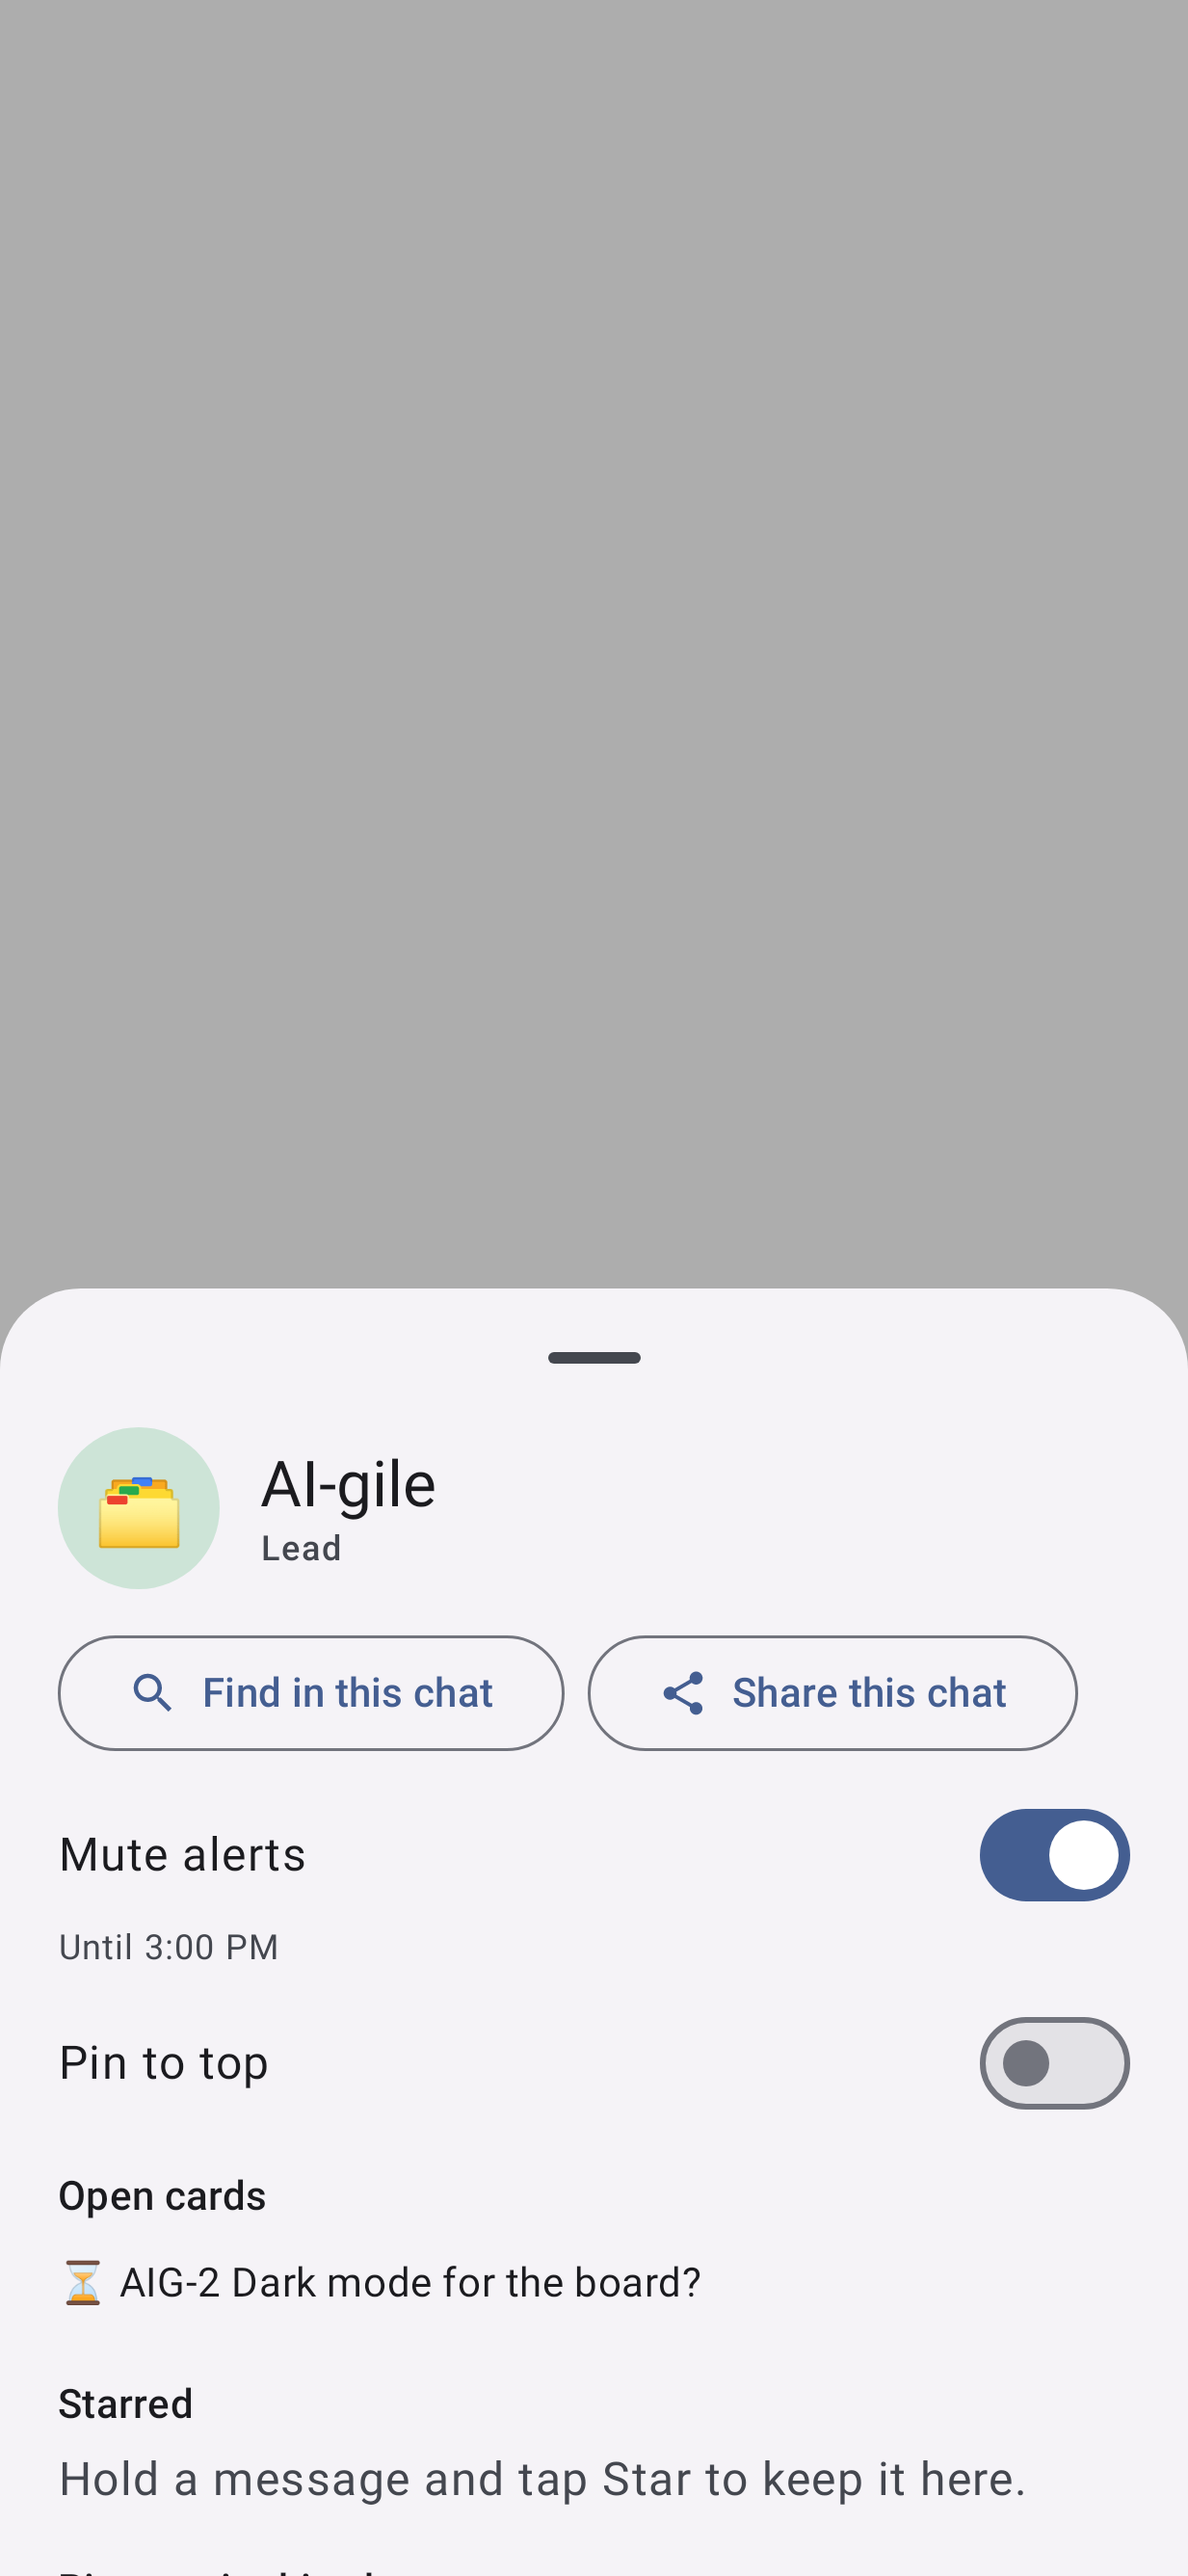
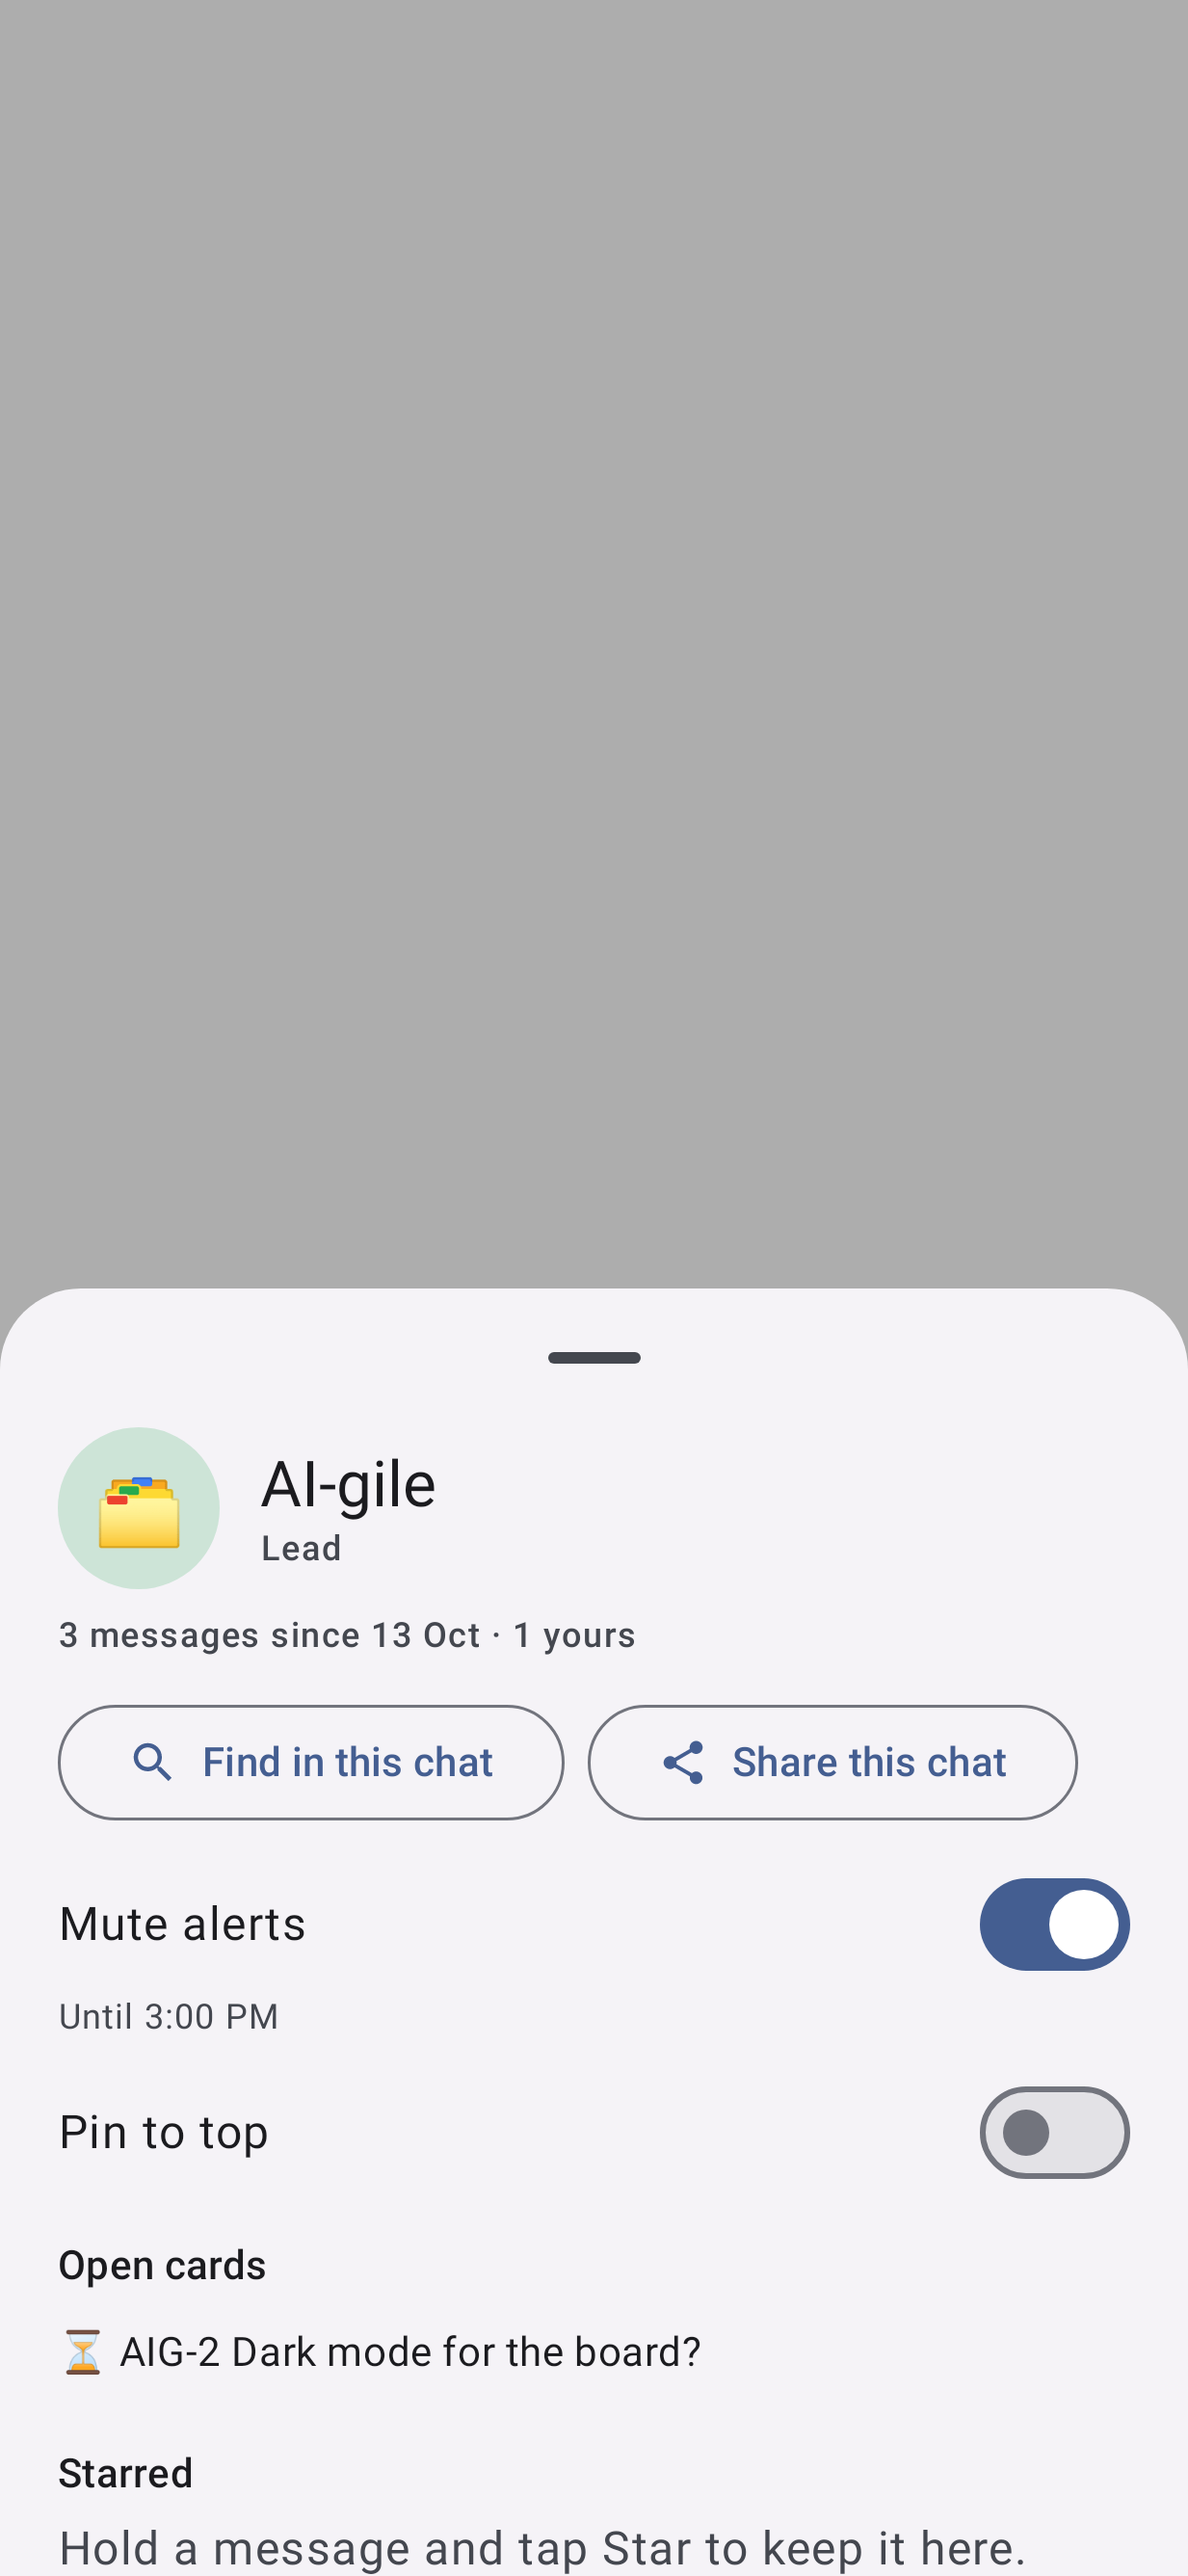
Chat details: About this chat (AII-203)

diff --git a/app/src/main/java/com/smizflark/aigile/messenger/data/ChatInfo.kt b/app/src/main/java/com/smizflark/aigile/messenger/data/ChatInfo.kt
@@ -1,14 +1,14 @@
 package com.smizflark.aigile.messenger.data
 
 /** What the chat details view lists (AII-80): the cards still open and the pictures sent in the chat. */
-data class ChatInfo(val openCards: List<Target>, val pictures: List<Pic>, val links: List<ChatLink> = emptyList(), val files: List<Pic> = emptyList())
+data class ChatInfo(val openCards: List<Target>, val pictures: List<Pic>, val links: List<ChatLink> = emptyList(), val files: List<Pic> = emptyList(), val about: About? = null)
 
 /** Open cards are the ones waiting on you; pictures are newest first, each only once. */
 fun chatInfo(c: Conversation?): ChatInfo {
     if (c == null) return ChatInfo(emptyList(), emptyList())
     val open = c.targets.filter { it.id != null && it.waiting }
     val pics = c.bubbles.asReversed().flatMap { it.pics }.filter { it.image }.distinctBy { it.path }
-    return ChatInfo(open, pics, Links.of(c.bubbles.map { it.text }), files(c))
+    return ChatInfo(open, pics, Links.of(c.bubbles.map { it.text }), files(c), about(c))
 }
 
 /** AII-197: every file that is not a picture, newest first, each once. */
@@ -35,3 +35,18 @@ fun fileMime(p: Pic): String {
         else -> "*/*"
     }
 }
+
+/** AII-203: how many messages the app has for a chat, how many are yours, and the day of the oldest. */
+data class About(val total: Int, val mine: Int, val since: java.time.LocalDate?)
+
+/** Only messages that have reached the chat count (not waiting, sending or failed ones). */
+fun about(c: Conversation, zone: java.time.ZoneId = java.time.ZoneId.systemDefault()): About? {
+    val sent = c.bubbles.filter { it.state == SendState.SENT }
+    if (sent.isEmpty()) return null
+    val first = sent.mapNotNull { runCatching { java.time.Instant.parse(it.at) }.getOrNull() }.minOrNull()
+    return About(sent.size, sent.count { it.mine }, first?.atZone(zone)?.toLocalDate())
+}
+
+/** "3 Oct" in the phone's language; the year joins it when it is not this year. */
+fun aboutDate(d: java.time.LocalDate, today: java.time.LocalDate = Now.today(), locale: java.util.Locale = java.util.Locale.getDefault()): String =
+    java.time.format.DateTimeFormatter.ofPattern(if (d.year == today.year) "d MMM" else "d MMM yyyy", locale).format(d)

diff --git a/app/src/test/java/com/smizflark/aigile/messenger/ChatInfoTest.kt b/app/src/test/java/com/smizflark/aigile/messenger/ChatInfoTest.kt
@@ -71,4 +71,18 @@ class ChatInfoTest {
         assertEquals(2, pics.size)
         assertTrue(pics.all { it.local && it.image })
     }
+
+    @Test fun aboutCountsSentMessagesAndFirstDay() {
+        fun m(at: String, mine: Boolean, st: com.smizflark.aigile.messenger.data.SendState = com.smizflark.aigile.messenger.data.SendState.SENT) =
+            Bubble(at, "a", "t", at, mine, state = st)
+        val conv = Conversation(ref, listOf(m("2026-10-03T08:00:00Z", false), m("2026-10-04T08:00:00Z", true), m("2026-10-05T08:00:00Z", true, com.smizflark.aigile.messenger.data.SendState.FAILED)))
+        val ab = com.smizflark.aigile.messenger.data.about(conv, java.time.ZoneOffset.UTC)!!
+        assertEquals(2, ab.total); assertEquals(1, ab.mine); assertEquals(java.time.LocalDate.of(2026, 10, 3), ab.since)
+        assertEquals(null, com.smizflark.aigile.messenger.data.about(Conversation(ref, emptyList())))
+    }
+    @Test fun aboutDateAddsYearOnlyWhenNotThisYear() {
+        val today = java.time.LocalDate.of(2026, 10, 14)
+        assertEquals("3 Oct", com.smizflark.aigile.messenger.data.aboutDate(java.time.LocalDate.of(2026, 10, 3), today, java.util.Locale.ENGLISH))
+        assertEquals("3 Oct 2025", com.smizflark.aigile.messenger.data.aboutDate(java.time.LocalDate.of(2025, 10, 3), today, java.util.Locale.ENGLISH))
+    }
 }

diff --git a/app/src/main/java/com/smizflark/aigile/messenger/ui/ChatDetails.kt b/app/src/main/java/com/smizflark/aigile/messenger/ui/ChatDetails.kt
@@ -67,6 +67,12 @@ fun ChatDetails(ref: ChatRef, repo: Repo, info: ChatInfo, onFind: (() -> Unit)? 
                     Text(ref.subtitle, style = MaterialTheme.typography.labelMedium, color = MaterialTheme.colorScheme.onSurfaceVariant)
                 }
             }
+            // AII-203: what the app has for this chat.
+            info.about?.let { ab ->
+                val n = androidx.compose.ui.res.pluralStringResource(R.plurals.about_chat_count, ab.total, ab.total)
+                Text(if (ab.since != null) stringResource(R.string.about_chat, n, com.smizflark.aigile.messenger.data.aboutDate(ab.since), ab.mine) else stringResource(R.string.about_chat_nodate, n, ab.mine),
+                    style = MaterialTheme.typography.labelMedium, color = MaterialTheme.colorScheme.onSurfaceVariant, modifier = Modifier.padding(top = 8.dp).testTag("details-about"))
+            }
             // AII-128: straight to the find bar from here.
             FlowRow(Modifier.padding(top = 12.dp), horizontalArrangement = Arrangement.spacedBy(8.dp)) {
                 if (onFind != null) OutlinedButton(onClick = onFind, modifier = Modifier.testTag("details-find")) {

diff --git a/docs/CODEMAP.md b/docs/CODEMAP.md
@@ -9,6 +9,7 @@ Kotlin under `app/src/main/java/com/smizflark/aigile/messenger/` (paths below ar
 ## data/ (pure logic, mostly unit tested)
 - data/ChatInfo.kt: a chat's open cards and pictures, for the chat details sheet.
 - data/ChatInfo.kt also lists non-picture files and guesses their MIME type (AII-197).
+- data/ChatInfo.kt also counts a chat's messages, yours and the first day, for the About this chat line (AII-203).
 - data/Links.kt: every web link in a chat (http links, [name](url), bare addresses), newest first, once each, at most 50, for the chat details Links list (AII-194).
 - data/Crash.kt: keeps the last crash and turns it into a bug message for the team.
 - data/Demo.kt: made-up chats that answer back, for trying the app with no board.
